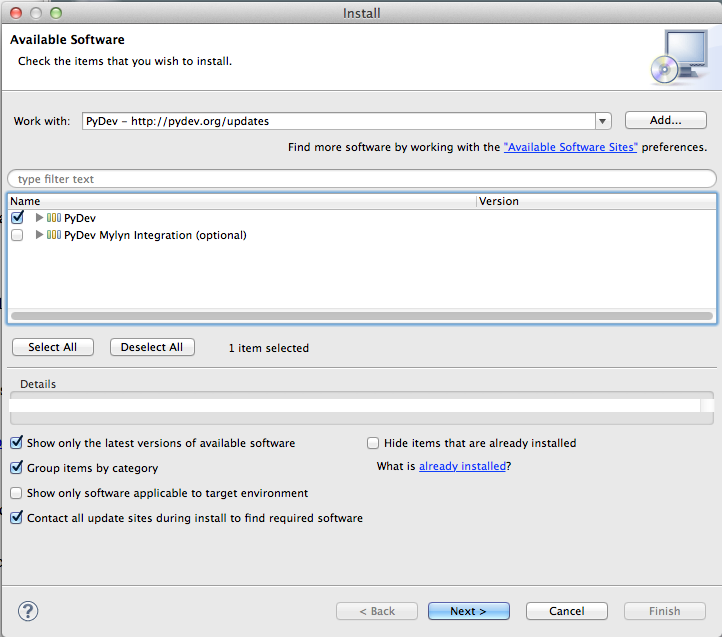
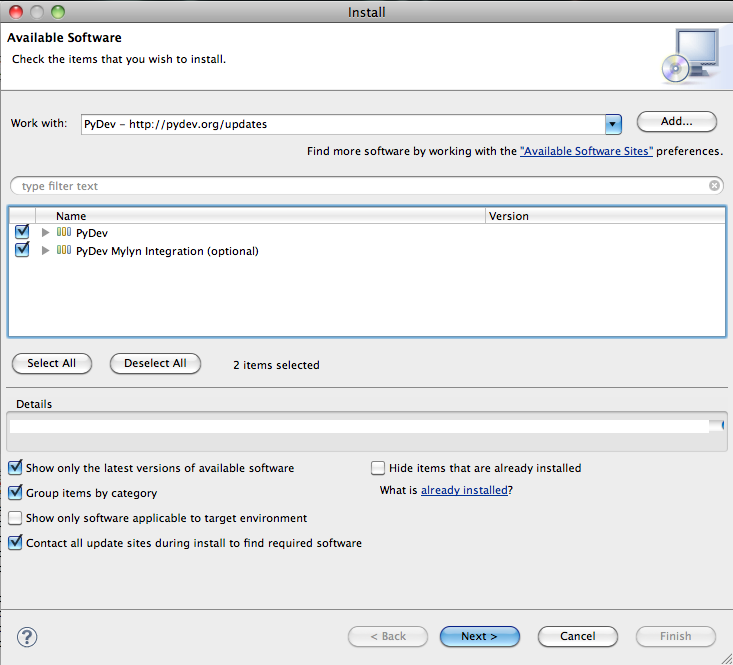
updated the usingEclipse documentation...now with MORE pictures! Also, instructions on how to install Subversion instead of Subclipse, should extenuating circumstances (such as running Mac OSX Lion) arise.
git-svn-id: http://music21.googlecode.com/svn/trunk@2250 5c16147e-a200-11de-b0cc-ab0ad15e60d0

diff --git a/buildDoc/rst/usingEclipse.rst b/buildDoc/rst/usingEclipse.rst
@@ -3,12 +3,41 @@
 Using music21 with SVN for Eclipse
 ==================================
 
-In order to develop music21 and stay current with updates to the latest versions, it is necessary to modify code using SVN for Eclipse. 
+In order to develop music21 and stay current with updates to the latest versions, it is necessary 
+to modify code using SVN for Eclipse.
+
+**IMPORTANT: BEFORE BEGINNING, UNINSTALL ALL EXISTING VERSIONS OF MUSIC21. ADDITIONAL VERSIONS OF 
+MUSIC21  INSTALLED IN OTHER LOCATIONS WILL CAUSE FIRE AND BRIMSTONE TO RAIN DOWN FROM THE SKIES.**
+
 
 Installing Eclipse
 ----------------------------------------------
 
-First, download and install the appropriate version of Eclipse from the following url if you don't already have it: 				    http://www.eclipse.org/downloads/packages/eclipse-classic-37/indigor
+First, download and install the appropriate version of Eclipse from the following url if you 
+don't already have it: http://www.eclipse.org/downloads/packages/eclipse-classic-37/indigor
+
+For Windows users, we recommend installing the 32-bit version, regardless of your system's 
+capabilities. For Mac users, choose the version that complies with your system. If in 
+doubt, 32-bit is a safe option, as 64-bit systems are back-compatible to 32-bit programs.
+
+For Mac users, once the .tar file has been unzipped, drag the 'eclipse' folder into the Applications 
+folder in your dock (make sure to drag the folder and not just the Eclipse icon - there are libraries 
+and other dependencies that need to be kept together).
+
+.. image:: images/usingEclipse/eclipsefolder.*
+    :width: 650
+    
+
+Once done, click on the Eclipse icon in the eclipse folder, and it should load. 
+
+.. image:: images/usingEclipse/eclipseicon.*
+    :width: 650
+
+
+You'll be prompted to select a workspace directory, which, by default is created in your documents 
+folder. Be sure to remember where this directory is, as it is where music21 will be installed.
+
+
 
 Installing PyDev for Eclipse
 ----------------------------------------------
@@ -16,85 +45,202 @@ Installing PyDev for Eclipse
 PyDev is a Python IDE for Eclipse, which may be used in Python, Jython, 
 and IronPython development. Installing PyDev must be done from inside Eclipse. 
 
-First, click on "Help" in the Eclipse menu bar. Then select "Install New Software..." A new dialog box will open up.
+First, click on "Help" in the Eclipse menu bar. Then select "Install New Software..." A new 
+dialog box will open up.
 
 .. image:: images/usingEclipse/installingpydev1.*
     :width: 650
 
-Enter the website "http://pydev.org/updates" in the "Work with:" field. Two programs will load in the field below. Check both boxes and click on "Next" at the bottom of the dialog box. Accept the terms, allow the certificate, and finally click on "Finish" when everything is done.
+
+Enter the website "http://pydev.org/updates" in the "Work with:" field. Do not click on "add;" 
+rather, simply press Enter and two programs will load in the field below (PyDev and PyDev Mylyn Integration). 
+Check both boxes and click on "Next" at the bottom of the dialog box. Accept the terms, and wait 
+for it to install. A security warning window will open, and you will be prompted to allow the 
+certificate for Aptana.
+
+.. image:: images/usingEclipse/aptana_certificate.*
+    :width: 650
+
+
+Check the box, click OK, and the install will continue.
+
+After the install is finished, you will be prompted to restart Eclipse, which you should do.
 
 (For more help, visit http://pydev.org/manual_101_install.html.)
+
+
 
 Installing Subclipse for Eclipse
 ----------------------------------------------
 
-Subclipse is an Eclipse Team Provider plug-in providing support for Subversion within the Eclipse IDE. Again, you should install Sublcipse from within Eclipse. Enter the following website into the "Work with:" field of the Install dialog box: http://subclipse.tigris.org/update_1.6.x. Follow the same process as with PyDev.
+Subclipse is an Eclipse Team Provider plug-in providing support 
+for Subversion within the Eclipse IDE. This is the recommended plug-in for Eclipse, but if you 
+continually encounter errors while following these directions, refer to `Dealing with Subversion Native 
+Library Not Available/JavaHL Errors`_ to install Subversive instead. 
+
+Again, you should install Sublcipse from within Eclipse by clicking on "Help" from the Eclipse menu bar and then 
+selecting "Install new software..." Enter the following website into the "Work with:" field of the Install dialog 
+box: http://subclipse.tigris.org/update_1.6.x. When the folders load in the field underneath, select all three and 
+then click on "Next."
+
+Follow the same process as with PyDev, including accepting the terms and continuing despite any security warnings. 
+Again, you will be asked to restart, and you should do so.
 
 .. image:: images/usingEclipse/installingsubclipse.*
     :width: 650
 
-For help with installing Subclipse, refer to: https://www.ibm.com/developerworks/opensource/library/os-ecl-subversion
+
+For additional help with installing Subclipse, refer to: https://www.ibm.com/developerworks/opensource/library/os-ecl-subversion
 
 
 Checking Out music21
 ----------------------------------------------
 
-Within Eclipse, select "Import" from the "File" menu. Expand the "SVN" option, and then select "Checkout Projects from SVN." and click "Next." 
+Within Eclipse, select "Import" from the "File" menu. Expand the "SVN" option, and then select 
+"Checkout Projects from SVN." and click "Next." 
 
 .. image:: images/usingEclipse/checkingoutfromSVN0.*
     :width: 650
+
 
 In the "Checkout from SVN" dialog box, select the "Create a new repository location" option.
 
 .. image:: images/usingEclipse/checkingoutfromSVN.*
     :width: 650
 
-"Under New Repositoy Location url, enter: https://music21.googlecode.com/svn/trunk
+
+Under "New Repository Location url", enter: "http://music21.googlecode.com/svn/trunk"
+
+
+From here on, if you encounter a "Subversion Native Library Not Available" error (especially OSX 
+Lion users), jump to `Dealing with Subversion Native Library Not Available/JavaHL Errors`_.
 
 .. image:: images/usingEclipse/checkingoutfromSVN2.*
     :width: 650
     
-The music21 folders should load in the field below. Highlight the "https://music21.googlecode.com/svn/trunk" folder and click "Finish."
+    
+The music21 folders should load in the field below. Highlight the "http://music21.googlecode.com/svn/trunk" 
+folder and click "Finish."
 
 .. image:: images/usingEclipse/checkingoutfromSVN3.*
     :width: 650 
 
 
 
-During the checkout, you will potentially encounter the following error:
+Dealing with Subversion Native Library Not Available/JavaHL Errors
+~~~~~~~~~~~~~~~~~~~~~~~~~~~~~~~~~~~~~~~~~~~~~~~~~~~~~~~~~~~~~~~~~~
 
-"Subversion Native Library Not Available"
+If you receive an error in a window entitled "Subversion Native Library Not Available,"
+then the easiest solution will be to install a program called Subversive instead.
 
-Follow the link provided (http://subclipse.tigris.org/wiki/JavaHL) and follow the instructions for whichever platform you are running.
+Click on "Help," then "Install new software..." In the pull-down menu, select "Indigo."  
 
-If you download from CollabNet, you can choose download a version of the available Subversion Binaries, which will contain the proper language bindings, but will not interfere with the installation of Subversion in progress.
+.. image:: images/usingEclipse/install_subversive1.*
+    :width: 650
+    
+    
+When the list of programs loads in the field below, expand "Collaboration."
+
+.. image:: images/usingEclipse/expand_collaboration.*
+    :width: 650
 
 
+Select the four options that begin with "Subversive" and click "Next." 
 
-The latest music21 code will automatically be checked out through SVN. 
+.. image:: images/usingEclipse/select_4subversive.*
+    :width: 650
+
+
+Accept the terms and allow the install to finish. Afterwards, you will be prompted to restart 
+Eclipse, which you should do.
+
+Upon restarting, an "Install Connectors" window will open, in which you should select the "SVN Kit 
+1.3.5" option and click "Finish."
+
+.. image:: images/usingEclipse/SVNconnectors.*
+    :width: 650
+
+
+An "Install" window will open, outlining the packets you are installing. Click on "Next >." 
+
+.. image:: images/usingEclipse/installSVNconnectors.*
+    :width: 650
+
+
+Again, you'll be prompted to accept terms, and your software will be installed (be sure to allow the 
+software when the security warning appears). And once again, you will be prompted to restart Eclipse.
+
+
+Checking Out music21 with Subversion
+----------------------------------------------
+
+Click on "File" from the Eclipse menu bar, and select "Import." Expand the "SVN" option. If you see 
+two SVN folders, expand the one that contains "Project from SVN" and select it. Click on "Next."
+ 
+.. image:: images/usingEclipse/projectfromSVN.*
+    :width: 650
+ 
+In the "Checkout from SVN" window, enter http://music21.googlecode.com/svn into the "URL:" field. 
+Select the "Use the repository URL as the label" option, and click on "Next." 
+ 
+.. image:: images/usingEclipse/checkoutfromSVN.*
+    :width: 650
+ 
+#TODO: write one for committing users as well using the images that Myke has with the password and what not
+ 
+Keep the defaults as shown and click "Finish" in the window that follows.
+ 
+.. image:: images/usingEclipse/selectresource_checkoutfromSVN.*
+    :width: 650
+ 
+A "Check Out As" window will appear. Keep the defaults as shown and click "Finish."  
+ 
+.. image:: images/usingEclipse/checkoutas.*
+    :width: 650
+ 
+Continue the process with `Creating a new PyDev Project`_.
 
 
 Creating a new PyDev Project
 ----------------------------------------------
 
-After the checkout process has completed, a dialog box will open, entitled "New Project," asking you to "select a wizard." Expand the "PyDev" option, and select "PyDev Project." Click "Next." 
+After the checkout process has completed, a dialog box will open, entitled "New Project," 
+asking you to "select a wizard." Expand the "PyDev" option, and select "PyDev Project." 
+Click "Next." 
 
 .. image:: images/usingEclipse/creatingnewpydevproj.*
     :width: 650 
 
-A new window with the heading "PyDev Project" will open. In the "Project Name" field, enter something recognizable to you such as "music21base." You will be asked to specify a Python interpreter, which you must do by clicking on the "Please configure an interpreter in the related preferences before proceeding" link.
+
+A new window with the heading "PyDev Project" will open. In the "Project Name" field, 
+enter something recognizable to you that is *NOT* "music21." (There will be a subdirectory 
+under the trunk file called "music21," and if name your trunk directory "music21," both you 
+and the SVN will be very confused). "music21base," for instance, is a perfectly safe name. 
+Click on the "Please configure an interpreter in the related preferences before proceeding" link.
 
 .. image:: images/usingEclipse/creatingnewpydevproj2.*
     :width: 650
 
-Clicking that link will open a new dialog box entitled "Preferences." The fastest way to detect any version of Python already isntalled on the system is to click "Auto Config" in the right-hand column.
+
+Clicking that link will open a new dialog box entitled "Preferences." The fastest way to 
+detect any version of Python already isntalled on the system is to click "Auto Config" in 
+the right-hand column.
 
 .. image:: images/usingEclipse/creatingnewpydevproj3.*
     :width: 650
 
+
 Click on "Select All" in the ensuing dialog box and click "OK." 
 
 .. image:: images/usingEclipse/creatingnewpydevproj4.*
+    :width: 650
+    
+    
+Next, you must manually add "music21" to your PYTHONPATH?. Click "New Folder" in the right-hand 
+column and search for the music21 folder in your workspace (this is typically under the Documents 
+directory of your user profile if you kept the default).  
+
+.. image:: images/usingEclipse/blurred_PYTHONPATH.*
     :width: 650
 
 After doing so, be sure to hit "Apply" in the "Preferences" dialog box before hitting "OK."
@@ -102,43 +248,109 @@ After doing so, be sure to hit "Apply" in the "Preferences" dialog box before hi
 .. image:: images/usingEclipse/creatingnewpydevproj5.*
     :width: 650
 
-When returning to the new PyDev Project box, a new drop-down menu should appear under the title "Interpreter," in which you should select "python". In the three bubbles below that field, select "Add project directly to the PYTHONPATH?" and then click on "Finish." 
+When returning to the new PyDev Project box, a new drop-down menu should appear under the 
+title "Interpreter," in which you should select "python". In the three bubbles below that 
+field, select "Add project directly to the PYTHONPATH?" and then click on "Finish." 
 
-.. image:: images/usingEclipse/creatingnewpydevproj6.*
+.. image:: images/usingEclipse/creatingnewpydevproject_cropped.*
     :width: 650
 
 
-The SVN checkout will continue. Once it is finished, files should appear in the left-hand column of Eclipse with the files of music21, with dates of updates and names of updaters next to them.
+When prompted to open a PyDev perspective, click "Yes."
+
+.. image:: images/usingEclipse/pydevperspective.*
+    :width: 650
+
+
+The SVN checkout will continue (it may take 10-15 minutes) amidst a screen such as the one shown below. 
+
+.. image:: images/usingEclipse/operationinprogress.*
+    :width: 650
+
+
+Once it is finished, files should appear in the left-hand column of Eclipse with the files of music21, with dates of updates 
+and names of updaters next to them.
 
 .. image:: images/usingEclipse/SVNfinalview.*
     :width: 650
     
+    
+    
 Checking The Install
 ----------------------------------------------
 
-In order to check to the install occurred as planned, you should open a PyDev console and attempt to import the music21 module.
+In order to check that the install occurred as planned, you should open a PyDev console and attempt 
+to import the music21 module.
 
 Click on "Window" in the Eclipse menu bar, then select "Show View" and choose "Console."
+
 
 .. image:: images/usingEclipse/choosingviewfrommenu.*
     :width: 650
     
-This will open a console window in the lower portion of the Eclipse interface. To create a Python console, find the menu bar above the console, and click on the icon all the way to the right that looks like a window with a sparkle on its upper-righthand corner. A new menu will open next to it.
+    
+This will open a console window in the lower portion of the Eclipse interface. To create a Python 
+console, find the menu bar above the console, and click on the icon all the way to the right that 
+looks like a window with a sparkle on its upper-righthand corner. A new menu will open next to it.
+
 
 .. image:: images/usingEclipse/wheretogotoopenconsole.*
     :width: 650
     
-Choose "PyDev Console." A new window will open with a series of buttons. Choose the "Python console" button and click "OK."
+    
+Choose "PyDev Console." A new window will open with a series of buttons. Choose the "Python console" 
+button and click "OK."
+
 
 .. image:: images/usingEclipse/choosingpythonconsole.*
     :width: 650
     
-A new console window will open in the lower portion of the Eclipse interface and will load Python. After it loads, you will be able to type. To verify that your install occurred correctly try typing "import music21."
+    
+A new console window will open in the lower portion of the Eclipse interface and will load Python. 
+After it loads, you will be able to type. To verify that your install occurred correctly try typing 
+"from music21 import \*."
+    
+Errors concerning additional packages may appear; if so, refer to :ref:`installAdditional` to 
+install them. Most modules in music21 will still function without them, however. If other errors 
+persist, contact the music21 staff for assistance: http://groups.google.com/group/music21list
 
-.. image:: images/usingEclipse/importingmusic21inpythonconsole.*
+
+
+As a quick music21 demo to ensure all of the components are working properly, create a Neopolitan 
+sixth chord in the key of A minor by typing in ``n6chord = roman.RomanNumeral('bII6', 'a')`` and press 
+Enter. To display the pitches contained in the chord, type ``n6chord.pitches`` and press Enter. The 
+output should be ``[D5, F5, B-5]``. 
+
+Next, create an eight-note triplet duration by typing 
+``trip = duration.Duration(0.333333333333333333)``. Music21 recognizes what kind of note typically has 
+that duration, and prints ``'Eight Triplet (0.33QL)'`` when you type ``trip.fullName`` and press Enter.
+
+.. image:: images/usingEclipse/frommusic21import*.*
     :width: 650
     
-Errors concerning additional packages may appear; if so, refer to :ref:`installAdditional` to install them. Most modules in music21 will still function without them, however. If other errors persist, contact the music21 staff for assistance: http://groups.google.com/group/music21list
+To create a user environment settings file, open the music21/configure.py file and run it by pressing 
+the green circle with a white arrowhead in it at the top of the Eclipse interface.
 
+.. image:: images/usingEclipse/runningconfigure.*
+    :width: 650
+    
+A new "Run As" window will appear in which you will be prompted to select a way to run configure.py. Choose
+"Python Run" and click on "OK."
 
-Once you have verified that the install completed successfully, open music21/configure.py and follow the prompts, if you have not done so already. See :ref:`environment` for more information on configuring user settings. Otherwise, head to: :ref:`quickStart`
+.. image:: images/usingEclipse/runas.*
+    :width: 650
+
+In the console, you may see errors about installing additional packages, after which you will see a message 
+beginning with "Welcome to the music21 Configuration Assisstant." 
+
+.. image:: images/usingEclipse/welcometoconfigassistant.*
+    :width: 650
+    
+When asked if you would like to install music21 in the normal place for Python packages, type "no" and press Enter.
+
+.. image:: images/usingEclipse/saynotosavingmusic21.*
+    :width: 650
+
+See :ref:`environment` for more information on 
+configuring user settings. Otherwise, head to: :ref:`quickStart` for further demos and tutorials on 
+using music21.
